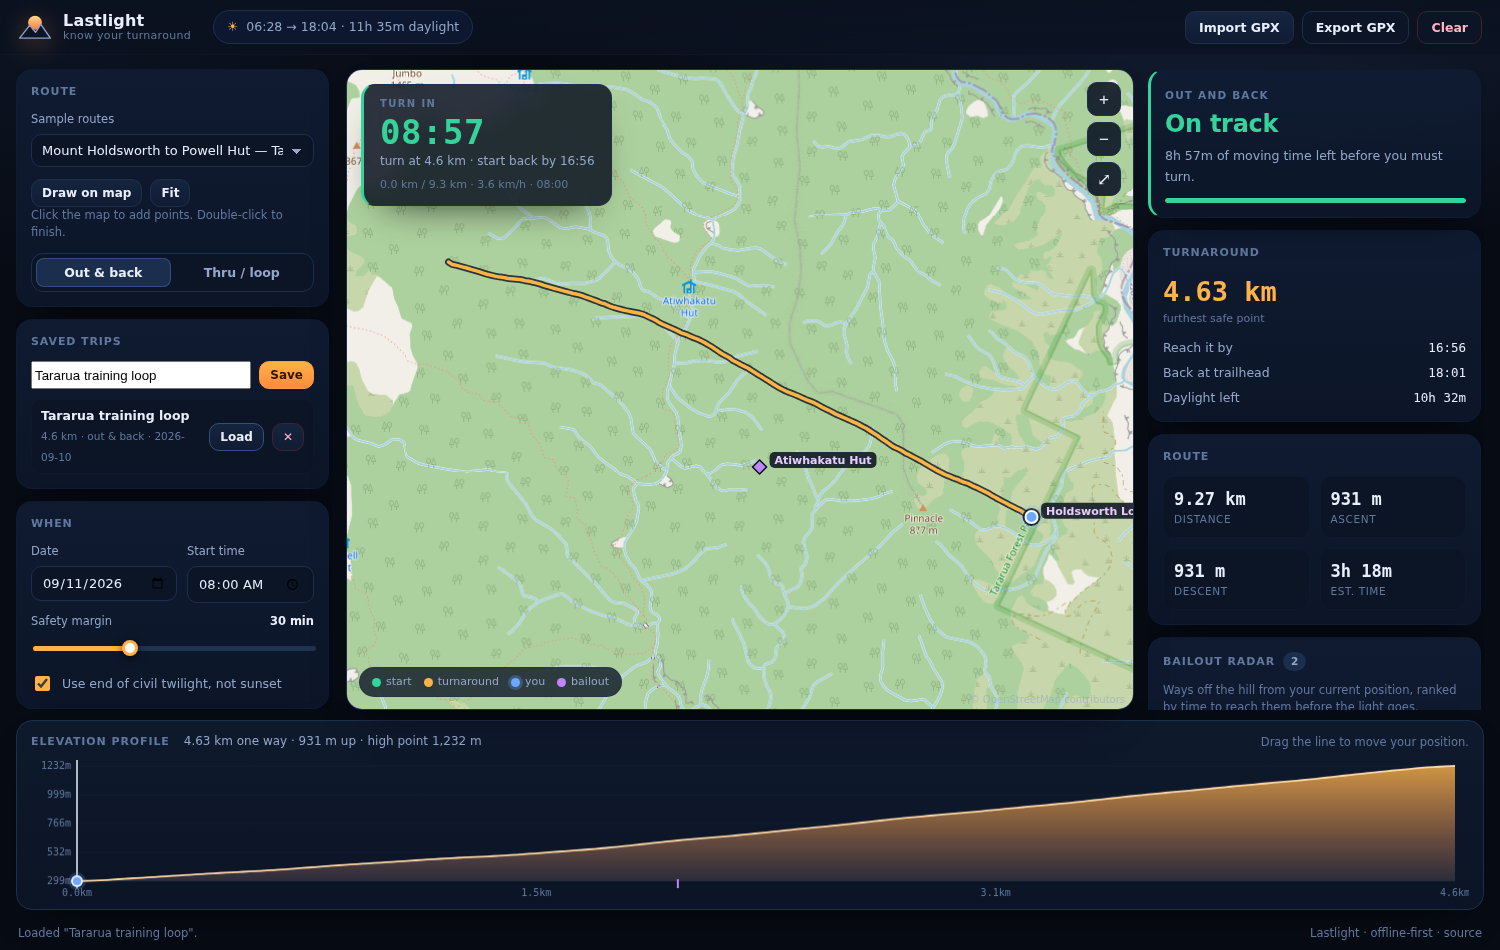
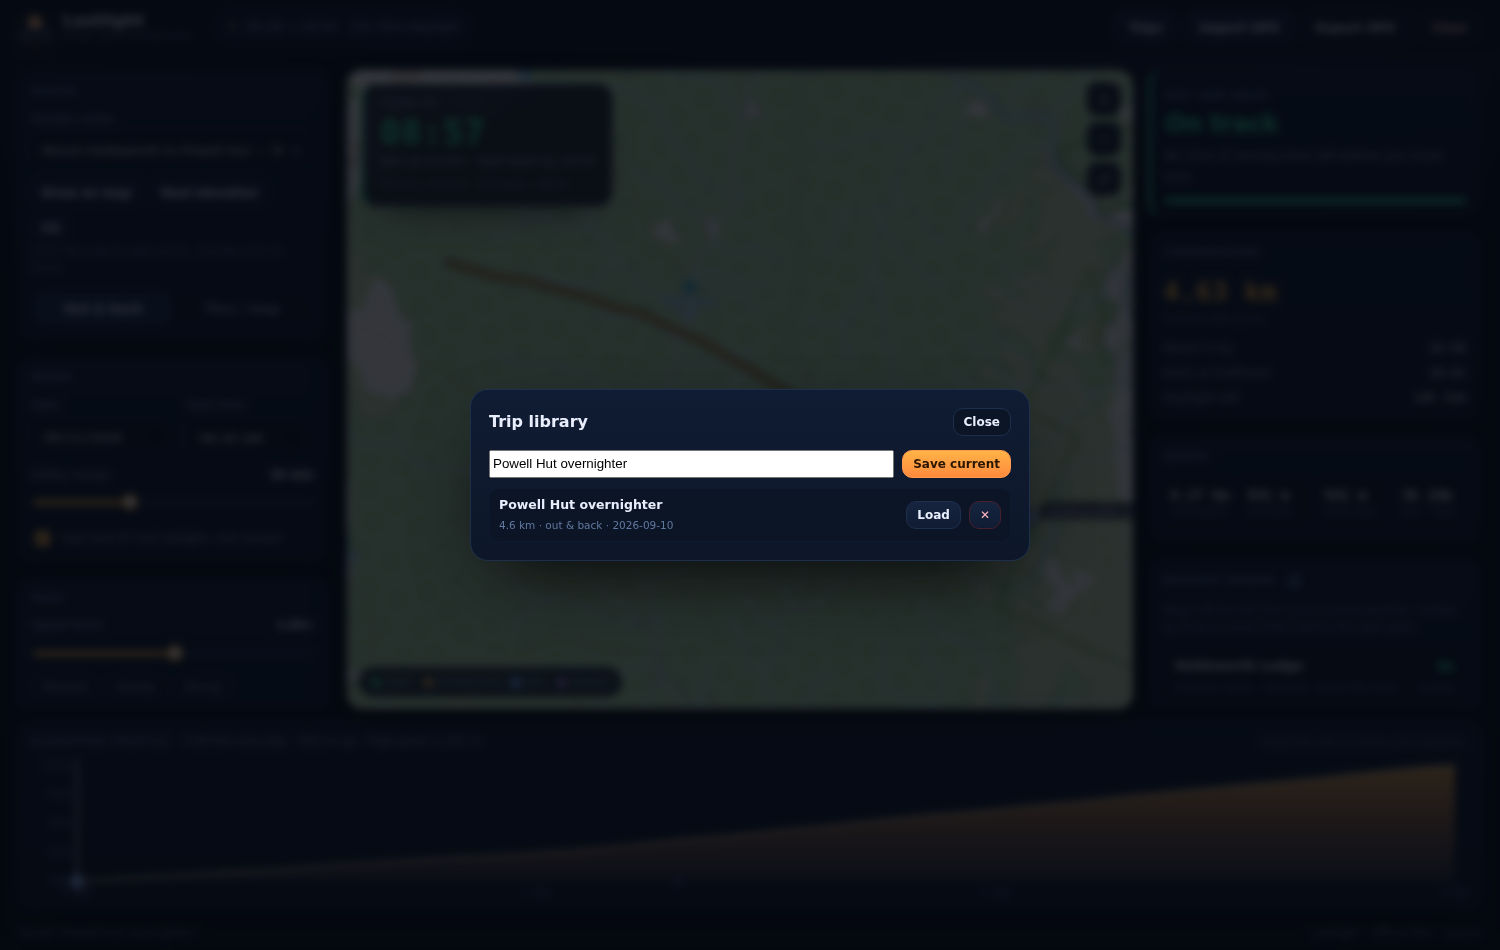
Add group pace, a trip-library modal and compact route stats
Group pace scales planning to the slowest member, the saved-trip list moves into a modal so the setup column keeps Route/When/Pace visible, route stats collapse to one row, and the Conditions card moves to the setup column. Includes fresh screenshots.

diff --git a/src/app.js b/src/app.js
@@ -36,6 +36,7 @@ const store = createStore({
   mode: DEFAULT_ROUTE.mode,
   startTime: todayAt(8),
   pace: { speedFactor: 1, movingRatio: 0.85 },
+  groupFactor: 1,
   safetyMargin: 30,
   useCivil: true,
   distanceNow: 0,
@@ -59,13 +60,21 @@ let simPlan = null;
 // ---------------------------------------------------------------------------
 // Derivations
 // ---------------------------------------------------------------------------
+// Pace actually used for planning: the walker\u2019s pace, then scaled down to
+// whatever the slowest person in the group can hold.
+function effectivePace(s) {
+  const base = s.pace || {};
+  const factor = (Number(base.speedFactor) || 1) * (s.groupFactor == null ? 1 : Number(s.groupFactor));
+  return sanitizePace(Object.assign({}, base, { speedFactor: factor }));
+}
+
 function computeDerived(s) {
   const raw = buildProfile(s.track, { smoothWindow: 3 });
   const profile = resample(raw, 20);
   const start = profile.points[0] || { lat: 0, lon: 0, ele: 0 };
   const sun = sunTimes(s.startTime, start.lat, start.lon);
   const dusk = s.useCivil ? (sun.civilDusk || sun.sunset) : (sun.sunset || sun.civilDusk);
-  const pace = sanitizePace(s.pace);
+  const pace = effectivePace(s);
   const outbound = buildSchedule(profile, pace);
   const inbound = buildSchedule(profile, pace, { reverse: true });
 
@@ -127,7 +136,7 @@ function nearestRouteDist(profile, point) {
 // Scenario clock for a position: the planned arrival time, offset by however
 // far behind (or ahead of) schedule the hiker is.
 function clockForPosition(s, distanceM) {
-  const outbound = buildSchedule(resample(buildProfile(s.track, { smoothWindow: 3 }), 20), sanitizePace(s.pace));
+  const outbound = buildSchedule(resample(buildProfile(s.track, { smoothWindow: 3 }), 20), effectivePace(s));
   const mins = minutesAtDistance(outbound, distanceM) + (s.delay || 0);
   return new Date(s.startTime.getTime() + mins * 60000);
 }
@@ -172,7 +181,7 @@ function renderHUD(s) {
 
 function currentSpeed(s) {
   const grade = derived.outbound.gradeAt ? derived.outbound.gradeAt(s.distanceNow) : 0;
-  return (6 * Math.exp(-3.5 * Math.abs(grade + 0.05)) * sanitizePace(s.pace).speedFactor).toFixed(1) + " km/h";
+  return (6 * Math.exp(-3.5 * Math.abs(grade + 0.05)) * effectivePace(s).speedFactor).toFixed(1) + " km/h";
 }
 
 function renderVerdict(s) {
@@ -492,6 +501,11 @@ function wire() {
   attachRange($("moving-ratio"), $("moving-ratio-out"), function (v) { return Math.round(v * 100) + "%"; }, function (v) {
     store.set({ pace: Object.assign({}, store.get().pace, { movingRatio: v }) });
   });
+  attachRange($("group-factor"), $("group-out"), function (v) {
+    return v >= 0.999 ? "solo" : Math.round(v * 100) + "% of best";
+  }, function (v) {
+    store.set({ groupFactor: v });
+  });
   Array.prototype.forEach.call(document.querySelectorAll(".chip[data-pace]"), function (chip) {
     chip.addEventListener("click", function () {
       const v = Number(chip.dataset.pace);
@@ -684,6 +698,20 @@ function wire() {
     }
   });
 
+  const tripsModal = $("trips-modal");
+  $("btn-trips").addEventListener("click", function () {
+    tripsModal.hidden = false;
+    renderTripList();
+    $("trip-name").focus();
+  });
+  $("trips-close").addEventListener("click", function () { tripsModal.hidden = true; });
+  tripsModal.addEventListener("click", function (ev) {
+    if (ev.target === tripsModal) tripsModal.hidden = true;
+  });
+  document.addEventListener("keydown", function (ev) {
+    if (ev.key === "Escape") tripsModal.hidden = true;
+  });
+
   $("network-pill").hidden = navigator.onLine;
   window.addEventListener("online", function () { $("network-pill").hidden = true; });
   window.addEventListener("offline", function () { $("network-pill").hidden = false; });
@@ -799,6 +827,7 @@ function snapshotTrip(s) {
     track: s.track,
     bailoutPoints: s.bailoutPoints,
     pace: s.pace,
+    groupFactor: s.groupFactor,
     safetyMargin: s.safetyMargin,
     useCivil: s.useCivil,
     startTime: s.startTime.toISOString(),
@@ -821,6 +850,7 @@ function syncControlsFromState(s) {
   $("use-civil").checked = s.useCivil;
   setRangeValue($("speed-factor"), s.pace.speedFactor);
   setRangeValue($("moving-ratio"), s.pace.movingRatio);
+  setRangeValue($("group-factor"), s.groupFactor == null ? 1 : s.groupFactor);
   setRangeValue($("safety-margin"), s.safetyMargin);
   setRangeValue($("delay"), s.delay || 0);
 }
@@ -840,6 +870,7 @@ function applyTrip(raw, fit) {
     bailoutPoints: trip.bailoutPoints,
     mode: trip.mode,
     pace: trip.pace,
+    groupFactor: trip.groupFactor == null ? 1 : trip.groupFactor,
     safetyMargin: trip.safetyMargin,
     useCivil: trip.useCivil,
     startTime: trip.startTime ? new Date(trip.startTime) : store.get().startTime,
@@ -863,7 +894,7 @@ function persistSession(s) {
     saveSession({
       routeId: s.routeId, routeName: s.routeName, mode: s.mode,
       track: tripPayload(s), bailoutPoints: s.bailoutPoints, pace: s.pace,
-      safetyMargin: s.safetyMargin, useCivil: s.useCivil,
+      groupFactor: s.groupFactor, safetyMargin: s.safetyMargin, useCivil: s.useCivil,
       startTime: s.startTime.toISOString(),
     });
   }, 500);

diff --git a/index.html b/index.html
@@ -35,6 +35,7 @@
     </div>
     <div class="top-actions">
       <span class="offline-pill" id="network-pill" hidden>offline</span>
+      <button class="btn" id="btn-trips" type="button">Trips</button>
       <button class="btn" id="btn-import" type="button">Import GPX</button>
       <button class="btn ghost" id="btn-export" type="button">Export GPX</button>
       <button class="btn ghost danger" id="btn-clear" type="button">Clear</button>
@@ -62,16 +63,6 @@
         </div>
       </section>
 
-      <section class="card">
-        <h2 class="card-title">Saved trips</h2>
-        <div class="save-row">
-          <input type="text" id="trip-name" placeholder="Trip name" />
-          <button class="btn small primary" id="btn-save-trip" type="button">Save</button>
-        </div>
-        <ul class="trip-list" id="trip-list">
-          <li class="empty">No saved trips yet.</li>
-        </ul>
-      </section>
 
       <section class="card">
         <h2 class="card-title">When</h2>
@@ -110,7 +101,26 @@
           <span class="field-label">Moving ratio <b id="moving-ratio-out">85%</b></span>
           <input type="range" id="moving-ratio" min="0.5" max="1" step="0.01" value="0.85" />
         </label>
-        <p class="hint">Moving ratio is the share of elapsed time you spend actually walking — breaks, photos and route-finding live in the rest.</p>
+        <label class="field">
+          <span class="field-label">Group pace <b id="group-out">solo</b></span>
+          <input type="range" id="group-factor" min="0.5" max="1" step="0.01" value="1" />
+        </label>
+        <p class="hint">Moving ratio is the share of elapsed time you spend actually walking — breaks, photos and route-finding live in the rest. Group pace plans for the slowest member.</p>
+      </section>
+
+      <section class="card" id="conditions-card">
+        <h2 class="card-title">Conditions <span class="pill" id="conditions-status">—</span></h2>
+        <div class="cond-main">
+          <span class="cond-icon" id="cond-icon">·</span>
+          <span class="cond-temp" id="cond-temp">—</span>
+          <span class="cond-label" id="cond-label">no forecast</span>
+        </div>
+        <dl class="kv">
+          <div><dt>Rain chance</dt><dd id="cond-rain">—</dd></div>
+          <div><dt>Peak wind</dt><dd id="cond-wind">—</dd></div>
+          <div><dt>Feels like</dt><dd id="cond-feels">—</dd></div>
+        </dl>
+        <p class="hint" id="cond-note"></p>
       </section>
 
       <section class="card">
@@ -189,21 +199,6 @@
         </div>
       </section>
 
-      <section class="card" id="conditions-card">
-        <h2 class="card-title">Conditions <span class="pill" id="conditions-status">\u2014</span></h2>
-        <div class="cond-main">
-          <span class="cond-icon" id="cond-icon">\u00b7</span>
-          <span class="cond-temp" id="cond-temp">\u2014</span>
-          <span class="cond-label" id="cond-label">no forecast</span>
-        </div>
-        <dl class="kv">
-          <div><dt>Rain chance</dt><dd id="cond-rain">\u2014</dd></div>
-          <div><dt>Peak wind</dt><dd id="cond-wind">\u2014</dd></div>
-          <div><dt>Feels like</dt><dd id="cond-feels">\u2014</dd></div>
-        </dl>
-        <p class="hint" id="cond-note"></p>
-      </section>
-
       <section class="card grow">
         <h2 class="card-title">Bailout radar <span class="pill" id="bailout-count">0</span></h2>
         <p class="hint">Ways off the hill from your current position, ranked by time to reach them before the light goes.</p>
@@ -227,6 +222,22 @@
     <span id="status">Ready.</span>
     <span class="status-right">Lastlight · offline-first · <a href="https://github.com/JovanXin/lastlight" target="_blank" rel="noopener">source</a></span>
   </footer>
+
+  <div class="modal" id="trips-modal" hidden>
+    <div class="modal-card" role="dialog" aria-modal="true" aria-label="Trip library">
+      <header class="modal-head">
+        <h2>Trip library</h2>
+        <button class="btn small ghost" id="trips-close" type="button">Close</button>
+      </header>
+      <div class="save-row">
+        <input type="text" id="trip-name" placeholder="Trip name" />
+        <button class="btn small primary" id="btn-save-trip" type="button">Save current</button>
+      </div>
+      <ul class="trip-list" id="trip-list">
+        <li class="empty">No saved trips yet.</li>
+      </ul>
+    </div>
+  </div>
 </div>
 <script type="module" src="src/app.js"></script>
 </body>

diff --git a/styles.css b/styles.css
@@ -279,9 +279,9 @@ input[type="range"]::-moz-range-thumb { width: 14px; height: 14px; border-radius
 .kv div { display: flex; justify-content: space-between; gap: 10px; font-size: 12.5px; }
 .kv dt { color: var(--muted); }
 .kv dd { margin: 0; font-family: var(--mono); color: var(--text); font-variant-numeric: tabular-nums; }
-.stats { display: grid; grid-template-columns: 1fr 1fr; gap: 10px; }
-.stat { background: #0b1526; border: 1px solid var(--line-soft); border-radius: 12px; padding: 10px; display: flex; flex-direction: column; }
-.stat span { font-family: var(--mono); font-size: 17px; font-weight: 600; }
+.stats { display: grid; grid-template-columns: repeat(4, minmax(0, 1fr)); gap: 6px; }
+.stat { background: #0b1526; border: 1px solid var(--line-soft); border-radius: 10px; padding: 8px 6px; display: flex; flex-direction: column; min-width: 0; }
+.stat span { font-family: var(--mono); font-size: 14px; font-weight: 600; white-space: nowrap; }
 .stat label { font-size: 10.5px; color: var(--faint); text-transform: uppercase; letter-spacing: 0.6px; }
 .pill { background: #1c2e4d; color: var(--muted); border-radius: 999px; padding: 2px 8px; font-size: 10.5px; letter-spacing: 0; }
 
@@ -292,6 +292,20 @@ input[type="range"]::-moz-range-thumb { width: 14px; height: 14px; border-radius
 .cond-label { font-size: 12px; color: var(--muted); }
 #cond-note:empty { display: none; }
 #cond-note { margin-top: 10px; color: var(--caution); }
+
+.modal[hidden] { display: none; }
+.modal {
+  position: fixed; inset: 0; z-index: 100; display: flex; align-items: center; justify-content: center;
+  background: #04070fcc; backdrop-filter: blur(4px); padding: 20px;
+}
+.modal-card {
+  width: min(560px, 100%); max-height: 80vh; overflow-y: auto;
+  background: linear-gradient(180deg, #101c33, #0d1729);
+  border: 1px solid var(--line); border-radius: 18px; padding: 18px;
+  box-shadow: 0 30px 80px -30px #000;
+}
+.modal-head { display: flex; align-items: center; justify-content: space-between; margin-bottom: 14px; }
+.modal-head h2 { margin: 0; font-size: 16px; }
 
 .save-row { display: flex; gap: 8px; }
 .save-row input { flex: 1; }
